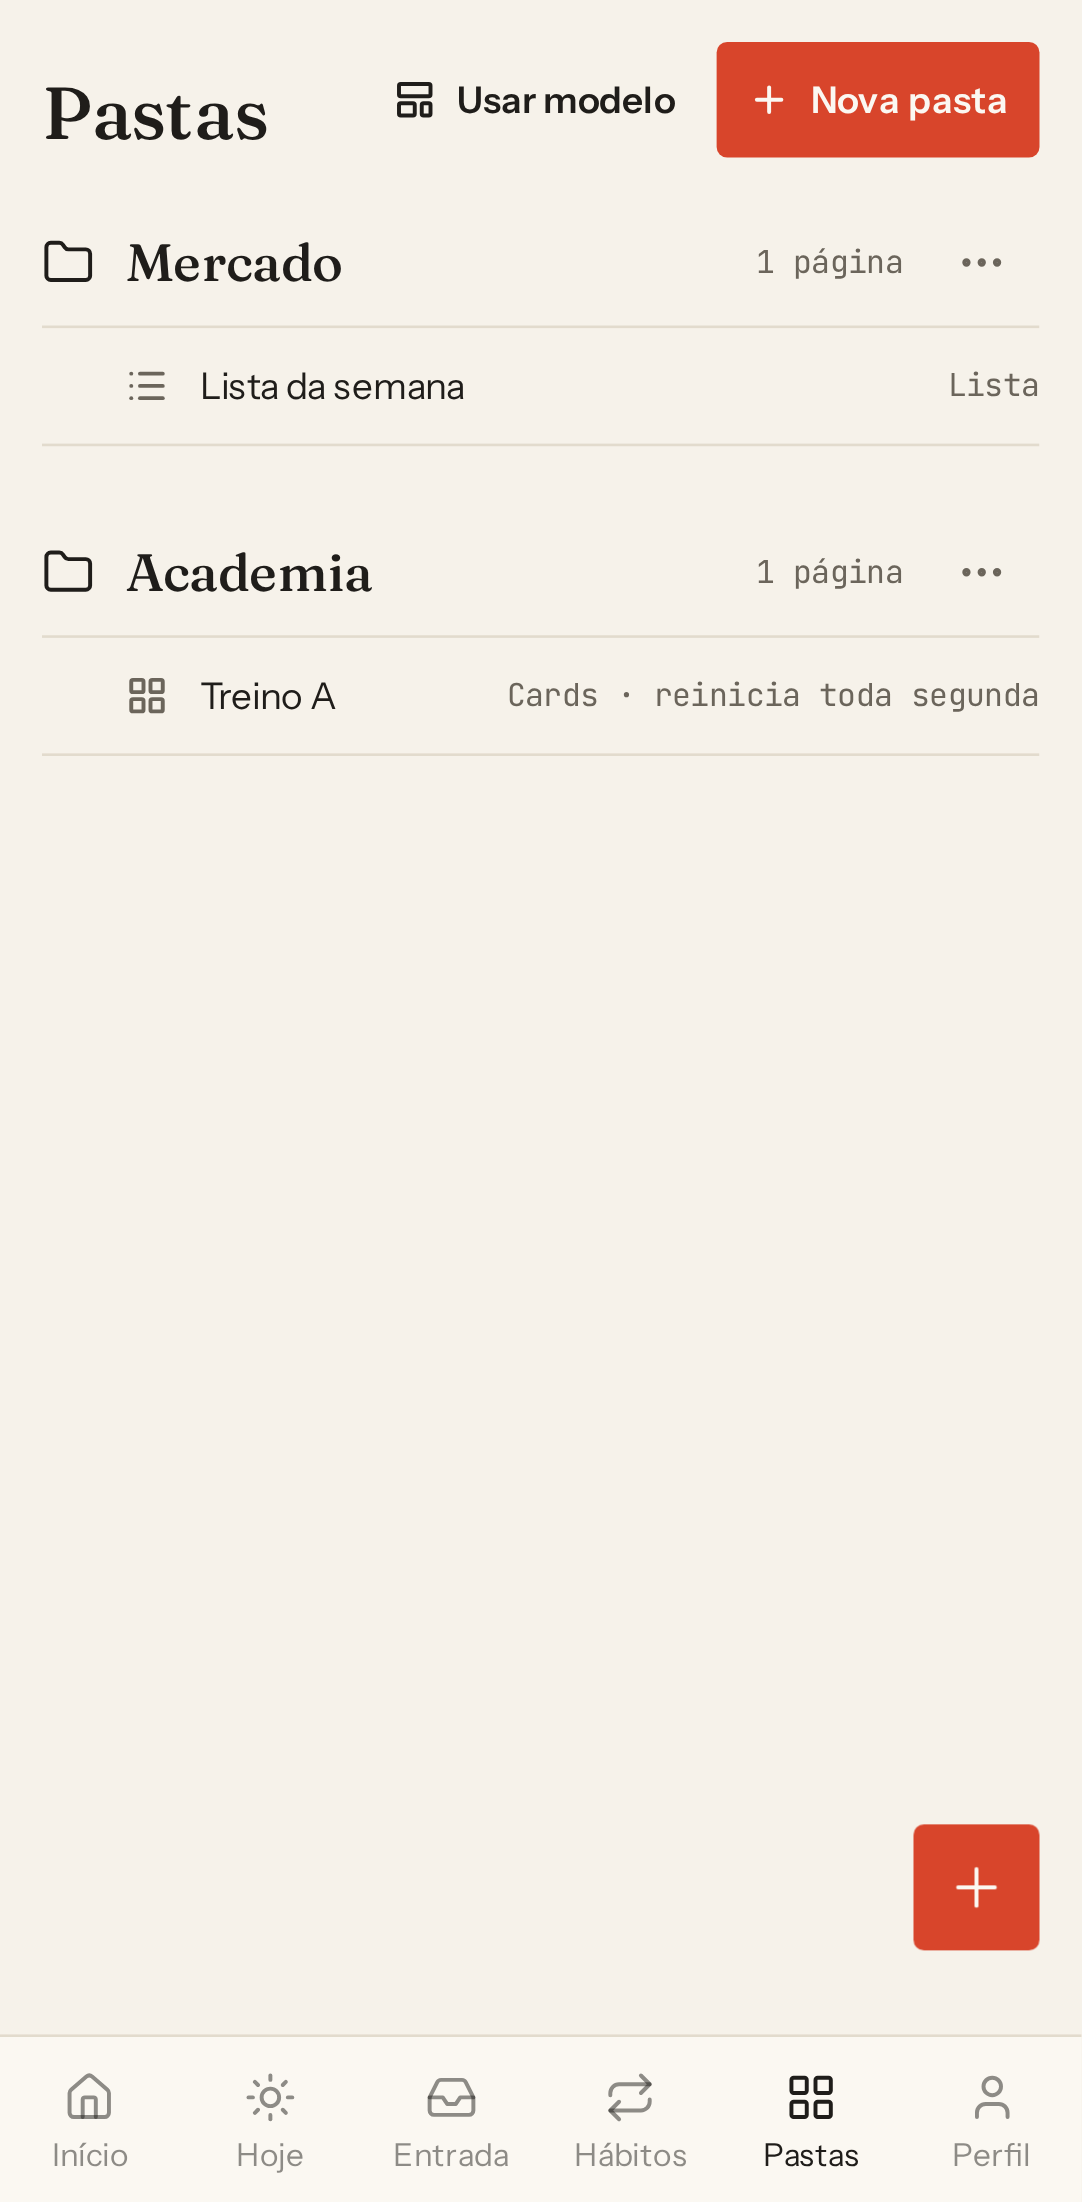
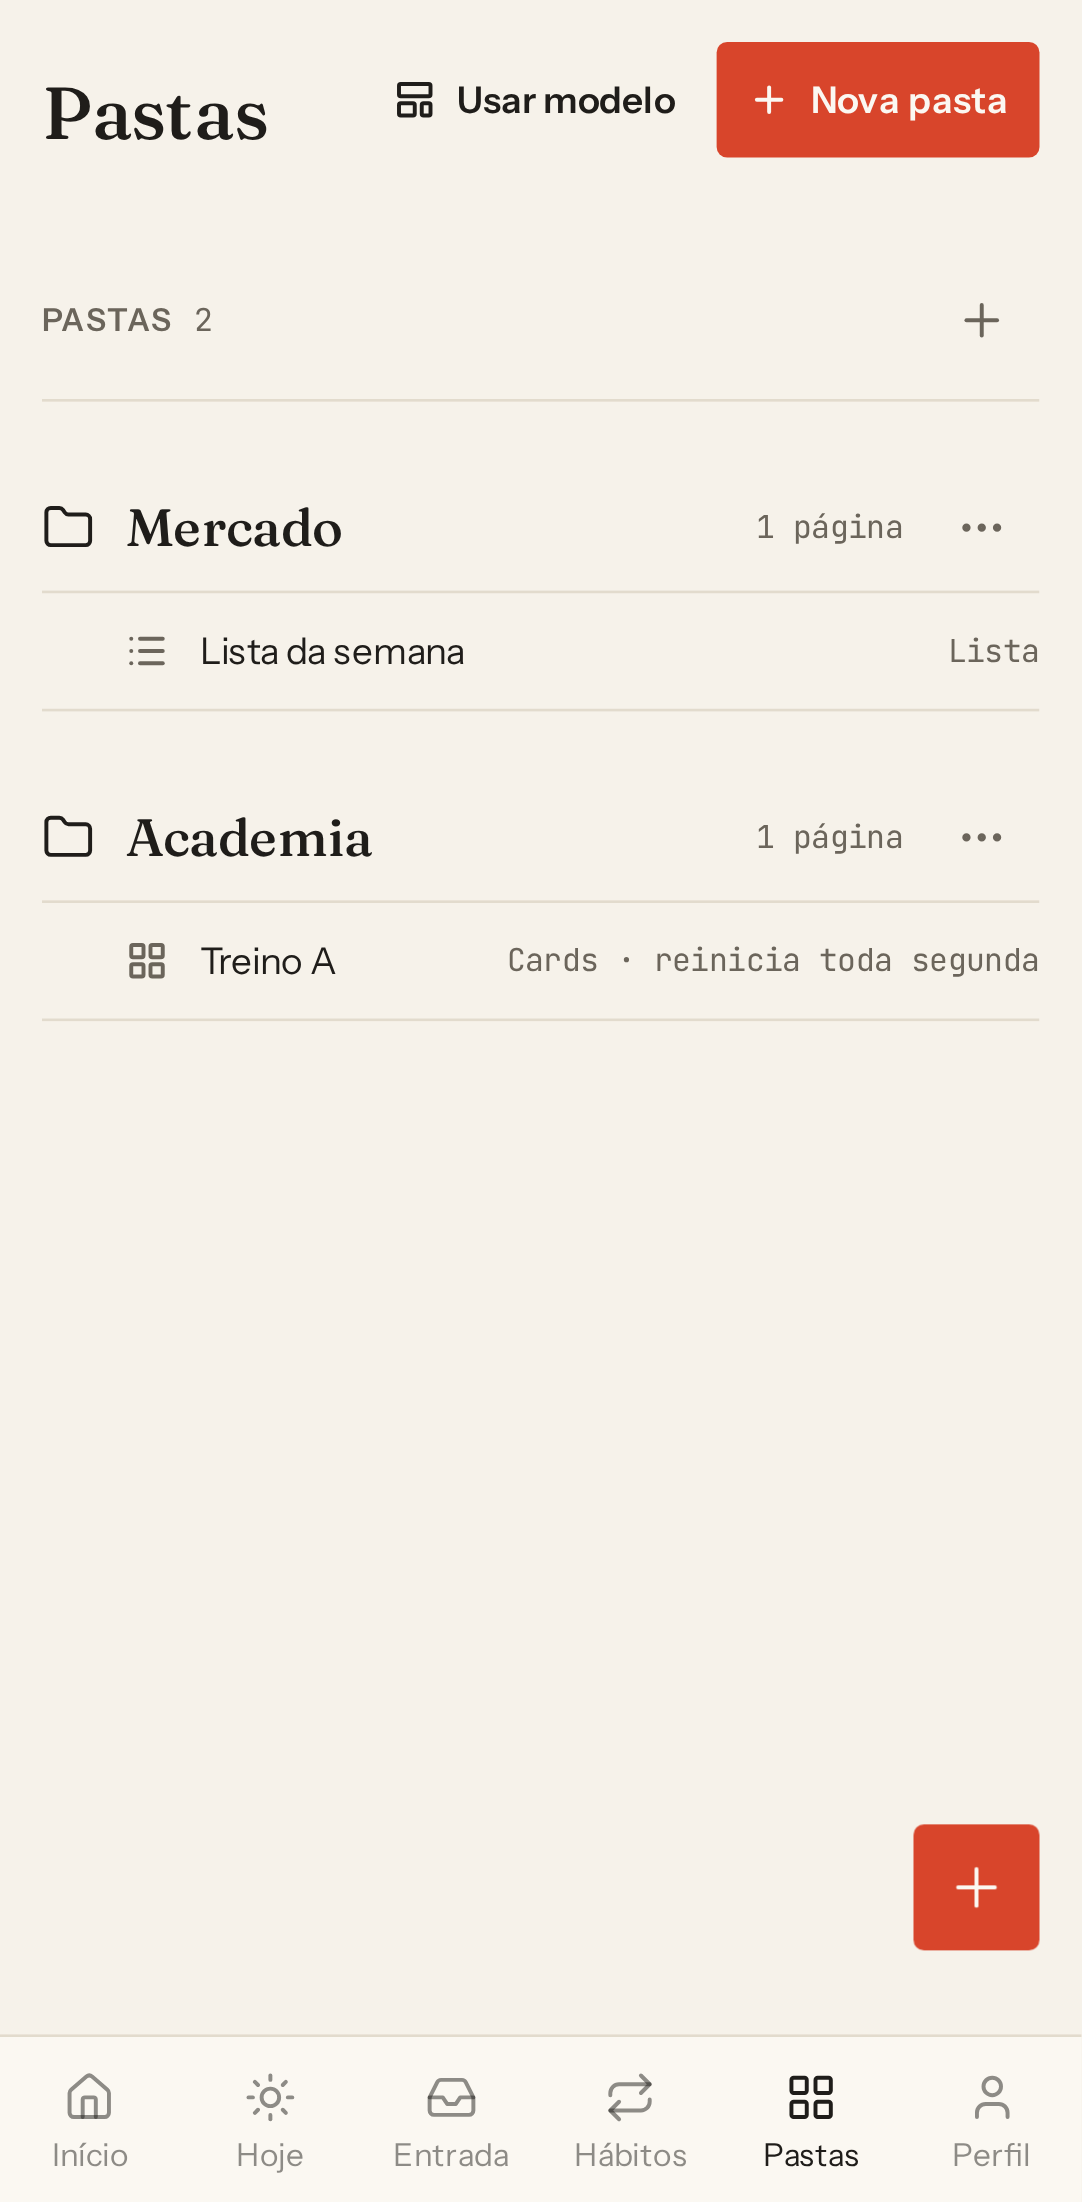
docs: capturas e CLAUDE.md depois das Fases B e C

diff --git a/CLAUDE.md b/CLAUDE.md
@@ -8,7 +8,7 @@
 
 ## Estado atual
 
-**V2/V3 em andamento:** veja `docs/STATUS.md`. Antes disso, **Fases 0 a 6 concluídas** (todas as do ESCOPO), mais a **Fase 7** (RPG leve e redesign para tela larga, D60 a D67; Início, tela Hábitos e página de hábitos de sistema, D68 a D70). Falta só o que depende do dono do projeto (contas das lojas e do EAS, nome/ícone, domínio, e-mail, teste em aparelho): veja `PUBLICACAO.md`. Barra lateral e telas de pasta em D32; gamificação em D33 a D39; projetos em D40 a D48; clã, bosses cooperativos, fila offline e privacidade em D49 a D53; Fase 6 (kanban, tema, onboarding, acessibilidade/performance, push, publicação) em D54 a D59; Fase 7 (dano separado do XP, classes, atributos, níveis de boss, ouro, loja e drops, hábitos contador e bom/ruim, conquistas, telas largas) em D60 a D67.
+**V2/V3 em andamento:** veja `docs/STATUS.md`. Fases A (fundação: i18n, `can()`, atalhos, decisão de sync D75), B (visual "Caderno de bolso", `docs/DESIGN.md`) e C (pasta × projeto, menu Novo, F2, seletor de ícone, atalhos, paleta, criação avançada, `/ajuda`) concluídas, D71 a D81. Antes disso, **Fases 0 a 6 concluídas** (todas as do ESCOPO), mais a **Fase 7** (RPG leve e redesign para tela larga, D60 a D67; Início, tela Hábitos e página de hábitos de sistema, D68 a D70). Falta só o que depende do dono do projeto (contas das lojas e do EAS, nome/ícone, domínio, e-mail, teste em aparelho): veja `PUBLICACAO.md`. Barra lateral e telas de pasta em D32; gamificação em D33 a D39; projetos em D40 a D48; clã, bosses cooperativos, fila offline e privacidade em D49 a D53; Fase 6 (kanban, tema, onboarding, acessibilidade/performance, push, publicação) em D54 a D59; Fase 7 (dano separado do XP, classes, atributos, níveis de boss, ouro, loja e drops, hábitos contador e bom/ruim, conquistas, telas largas) em D60 a D67.
 
 ## Stack
 
@@ -116,6 +116,13 @@ supabase/
   tests/                      # pgTAP (*.test.sql)
 e2e/                          # Playwright (helpers.ts: signUp, openTab, paste, shown, createPage, ageCycle, ageTask)
 ```
+
+## Peças da V2 (Fases A a C)
+
+- `src/i18n/` (i18next; chaves tipadas pelo `pt-BR.json`), `lib/permissions.ts` (`can()`), `lib/tokens.ts` (cores, durações, medidas), `lib/fonts.ts`.
+- `lib/shortcuts.ts` (registro) + `lib/use-shortcut.ts`; os atalhos de lista e globais são tratados em `components/list-keys.tsx`; a seleção da lista mora em `lib/selection.ts` (store com assinatura por linha) e as telas registram a ordem com `useSelectableList`.
+- `components/new-menu.tsx` (menu Novo), `components/command-palette.tsx` (Ctrl+K), `components/icon-picker.tsx` + `lib/icon-names.ts`/`lib/icons.ts` (ícones `lucide:id`), `components/item-icon.tsx`, `components/ui/*` (Button/IconButton, Checkbox/StampBox, Sheet, Popover/MenuItem, SectionLabel, EmptyState, Avatar/PersonRow, ToggleRow, Text).
+- Rotas novas: `/task/new` (criação avançada), `/ajuda`, `/design` (só em desenvolvimento).
 
 ## Regras do projeto
 
